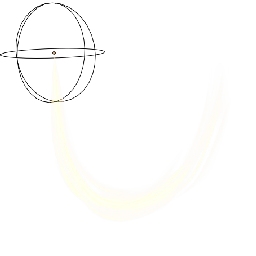
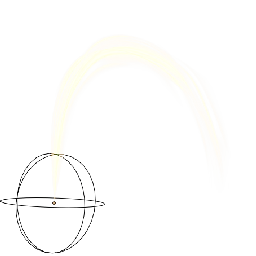
fix: 修正缩略图上下翻转（导出时多做了一次行序翻转，与官方生成器对齐）

diff --git a/发布资产库.py b/发布资产库.py
@@ -1,0 +1,228 @@
+"""远程资产库发布工具（修复中文资产缩略图撞名问题）
+
+背景：Blender 自带的 `asset_listing generate` 在导出缩略图时，
+用 `_name_to_filename()` 清洗资产名——它做了
+`unicodedata.normalize('NFKD', name).encode('ascii','ignore')`，
+**非 ASCII 字符（中文）会被整体丢弃**，导致：
+
+    二极化分布调整   -> Nodetree/.webp    （空名）
+    随机值_二极化调整 -> Nodetree/.webp    （空名，撞车被覆盖！）
+
+于是索引里两个资产声明了不同 hash，却指向同一个文件，必然有一个校验失败。
+
+本脚本在 generate 之后接管缩略图：
+  1. 用 Blender 后台打开每个 .blend，把每个资产的预览图导出成唯一文件名
+     （`<资产名清洗>__<md5(名字)[:8]>.webp`，保证不撞车）
+  2. 重写 assets-*.json 里对应资产的 thumbnail.url / hash
+  3. 重算分页 hash 与 meta hash
+  4. 从磁盘读回做最终校验
+
+用法：
+    python publish.py <仓库目录>
+"""
+from __future__ import annotations
+
+import hashlib
+import json
+import os
+import re
+import subprocess
+import sys
+import tempfile
+import unicodedata
+import urllib.parse
+
+BLENDER = r"G:\steam\steamapps\common\Blender\blender.exe"
+
+_EXPORT_SCRIPT = r'''
+import bpy, os, json, hashlib, unicodedata, re
+
+OUT = os.environ["RA_OUT"]
+REF = json.load(open(os.environ["RA_REF"], encoding="utf-8"))
+want = set(REF["want"])   # 需要导出的资产 key: "<id_type>|<name>"
+
+def safe_name(v):
+    v = unicodedata.normalize("NFKD", v).encode("ascii", "ignore").decode("ascii")
+    v = re.sub(r"[^\w\s_-]", "", v.lower())
+    v = re.sub(r"[-\s]+", "-", v).strip("-_")
+    return v or "asset"
+
+result = {}
+for coll_name in ("node_groups", "materials", "objects", "images", "worlds", "collections"):
+    coll = getattr(bpy.data, coll_name, None)
+    if coll is None:
+        continue
+    for db in coll:
+        if not db.asset_data:
+            continue
+        key = db.id_type + "|" + db.name
+        if key not in want:
+            continue
+        p = db.preview
+        if not p or p.image_size[0] <= 0 or p.image_size[1] <= 0:
+            continue
+        w, h = p.image_size
+        px = list(p.image_pixels_float)
+        rows = [px[i*w*4:(i+1)*w*4] for i in range(h)][::-1]   # OpenGL 行序翻转
+        flat = [c for r in rows for c in r]
+        suffix = hashlib.md5(key.encode("utf-8")).hexdigest()[:8]
+        fname = f"{safe_name(db.name)}__{suffix}.webp"
+        img = bpy.data.images.new("_ra_tmp", width=w, height=h, alpha=True)
+        img.pixels = flat
+        img.file_format = "WEBP"
+        img.save(filepath=os.path.join(OUT, fname), quality=80)
+        bpy.data.images.remove(img)
+        data = open(os.path.join(OUT, fname), "rb").read()
+        result[key] = {
+            "file": fname,
+            "hash": "SHA256:" + hashlib.sha256(data).hexdigest(),
+        }
+
+json.dump(result, open(os.environ["RA_RESULT"], "w", encoding="utf-8"),
+          ensure_ascii=False, indent=1)
+print("EXPORTED", len(result))
+'''
+
+
+def sha256_file(path: str) -> str:
+    h = hashlib.sha256()
+    with open(path, "rb") as f:
+        for chunk in iter(lambda: f.read(1 << 20), b""):
+            h.update(chunk)
+    return "SHA256:" + h.hexdigest()
+
+
+def read_json(path: str):
+    return json.loads(open(path, encoding="utf-8-sig").read())
+
+
+def write_json(path: str, obj):
+    # 无 BOM、LF —— 与 Blender 的裸字节 hash 口径一致
+    open(path, "w", encoding="utf-8", newline="\n").write(
+        json.dumps(obj, ensure_ascii=False, indent=2))
+
+
+def main(repo: str) -> int:
+    repo = os.path.abspath(repo)
+    idx_path = os.path.join(repo, "_v1", "asset-index.json")
+    idx = read_json(idx_path)
+    report = {"regenerated": [], "failed": []}
+
+    # --- 收集：哪些资产的缩略图需要重新导出 ---
+    # 只处理「同一个 .blend 内多个资产解析到同一个缩略图 URL」的冲突组
+    for page in idx.get("pages", []):
+        page_path = os.path.join(repo, *page["url"].replace("/", os.sep).split(os.sep))
+        page_data = read_json(page_path)
+
+        # 按 blend 文件分组，找出 URL 冲突
+        by_file: dict[str, list] = {}
+        for a in page_data.get("assets", []):
+            th = a.get("thumbnail")
+            if not th:
+                continue
+            f = a.get("files", [""])[0]
+            by_file.setdefault(f, []).append(a)
+
+        for blend_rel, alist in by_file.items():
+            # 触发条件（任一）：
+            #   1) 同一 blend 内多个资产指向同一个缩略图 URL（真撞名）
+            #   2) 缩略图文件名被清洗成空（中文名被 ascii 化丢弃，如 "/.webp"）
+            urls: dict[str, int] = {}
+            for a in alist:
+                u = a["thumbnail"]["url"]
+                urls[u] = urls.get(u, 0) + 1
+            has_dup = any(n > 1 for n in urls.values())
+            has_empty = any(
+                urllib.parse.unquote(u).endswith("/.webp") or
+                os.path.basename(urllib.parse.unquote(u)) == ".webp"
+                for u in urls)
+            if not (has_dup or has_empty):
+                continue
+
+            blend_path = os.path.join(repo, *blend_rel.split("/"))
+            if not os.path.exists(blend_path):
+                report["failed"].append(f"missing blend: {blend_rel}")
+                continue
+
+            # 让 Blender 导出这一批资产
+            want = [a["id_type"] + "|" + a["name"] for a in alist]
+            outdir = os.path.join(repo, os.path.dirname(blend_rel),
+                                  os.path.splitext(os.path.basename(blend_rel))[0] + "_thumbnails")
+            os.makedirs(outdir, exist_ok=True)
+            with tempfile.TemporaryDirectory() as td:
+                ref = os.path.join(td, "ref.json")
+                res = os.path.join(td, "res.json")
+                scr = os.path.join(td, "export.py")
+                json.dump({"want": want}, open(ref, "w", encoding="utf-8"), ensure_ascii=False)
+                open(scr, "w", encoding="utf-8").write(_EXPORT_SCRIPT)
+                env = dict(os.environ, RA_OUT=outdir, RA_REF=ref, RA_RESULT=res)
+                p = subprocess.run([BLENDER, "--background", "--factory-startup",
+                                    blend_path, "--python", scr],
+                                   capture_output=True, text=True, encoding="utf-8",
+                                   errors="replace", env=env, timeout=900)
+                if not os.path.exists(res):
+                    report["failed"].append(f"export failed: {blend_rel}: {(p.stdout or '')[-200:]}")
+                    continue
+                exported = json.load(open(res, encoding="utf-8"))
+
+            # 回写：给每个资产指向自己的唯一缩略图
+            prefix = os.path.dirname(blend_rel)
+            for a in alist:
+                key = a["id_type"] + "|" + a["name"]
+                info = exported.get(key)
+                if not info:
+                    report["failed"].append(f"no preview: {blend_rel} :: {a['name']}")
+                    continue
+                rel = "/".join([p for p in (prefix, os.path.basename(outdir), info["file"]) if p])
+                a["thumbnail"] = {"url": urllib.parse.quote(rel), "hash": info["hash"]}
+                report["regenerated"].append({"asset": a["name"], "file": rel})
+
+        write_json(page_path, page_data)
+
+    # --- 重算分页 hash ---
+    for page in idx.get("pages", []):
+        page_path = os.path.join(repo, *page["url"].replace("/", os.sep).split(os.sep))
+        page["hash"] = sha256_file(page_path)
+    write_json(idx_path, idx)
+
+    # --- 重写 meta ---
+    meta_path = os.path.join(repo, "_asset-library-meta.json")
+    meta = read_json(meta_path) if os.path.exists(meta_path) else {}
+    meta["name"] = "好柒实用工具资产库"
+    meta.setdefault("contact", {"name": "HAOAH", "url": "https://github.com/HAOAH0091",
+                                "email": "toukou0091@gmail.com"})
+    meta["api_versions"] = {"v1": {"url": "_v1/asset-index.json",
+                                   "hash": sha256_file(idx_path)}}
+    write_json(meta_path, meta)
+
+    # --- 最终校验 ---
+    vmeta = read_json(meta_path)
+    ok_meta = vmeta["api_versions"]["v1"]["hash"] == sha256_file(idx_path)
+    vidx = read_json(idx_path)
+    ok_pages = True
+    thumbs_total = thumbs_bad = 0
+    for page in vidx.get("pages", []):
+        pp = os.path.join(repo, *page["url"].replace("/", os.sep).split(os.sep))
+        if sha256_file(pp) != page["hash"]:
+            ok_pages = False
+        pd = read_json(pp)
+        for a in pd.get("assets", []):
+            th = a.get("thumbnail")
+            if not th:
+                continue
+            thumbs_total += 1
+            fp = os.path.join(repo, *urllib.parse.unquote(th["url"]).replace("/", os.sep).split(os.sep))
+            if not os.path.exists(fp) or sha256_file(fp) != th["hash"]:
+                thumbs_bad += 1
+
+    print(json.dumps({
+        "report": report,
+        "verify": {"meta_hash_ok": ok_meta, "pages_hash_ok": ok_pages,
+                   "thumbs_checked": thumbs_total, "thumbs_bad": thumbs_bad,
+                   "assets": vidx.get("asset_count")},
+    }, ensure_ascii=False, indent=1))
+    return 0 if (ok_meta and ok_pages and thumbs_bad == 0) else 1
+
+
+if __name__ == "__main__":
+    sys.exit(main(sys.argv[1] if len(sys.argv) > 1 else "."))
